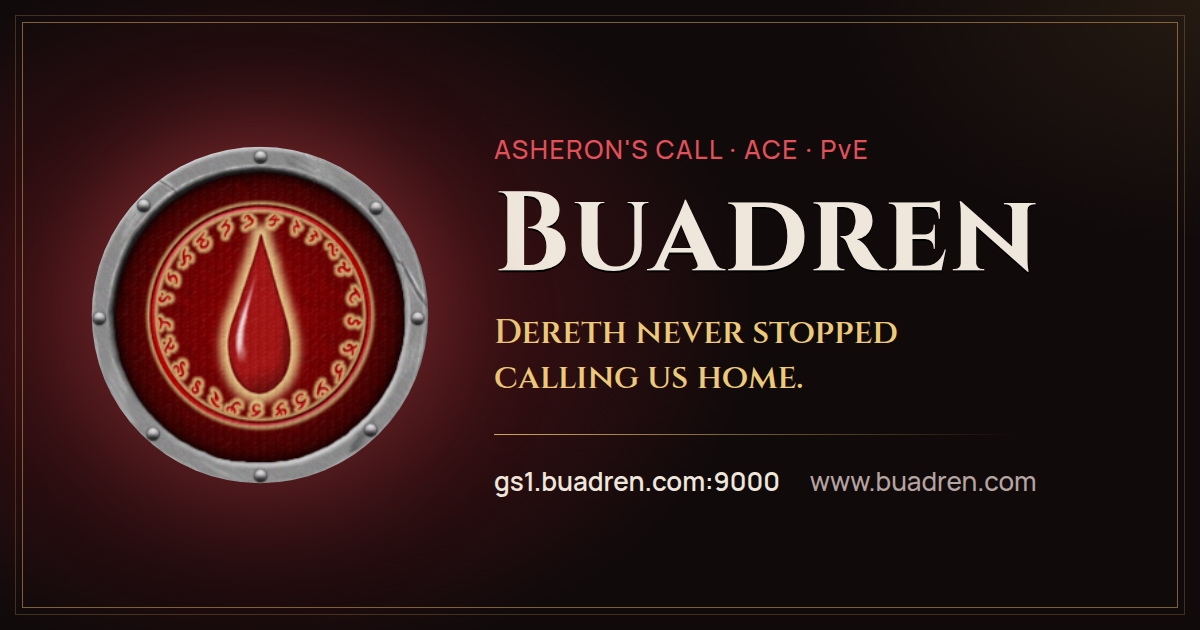
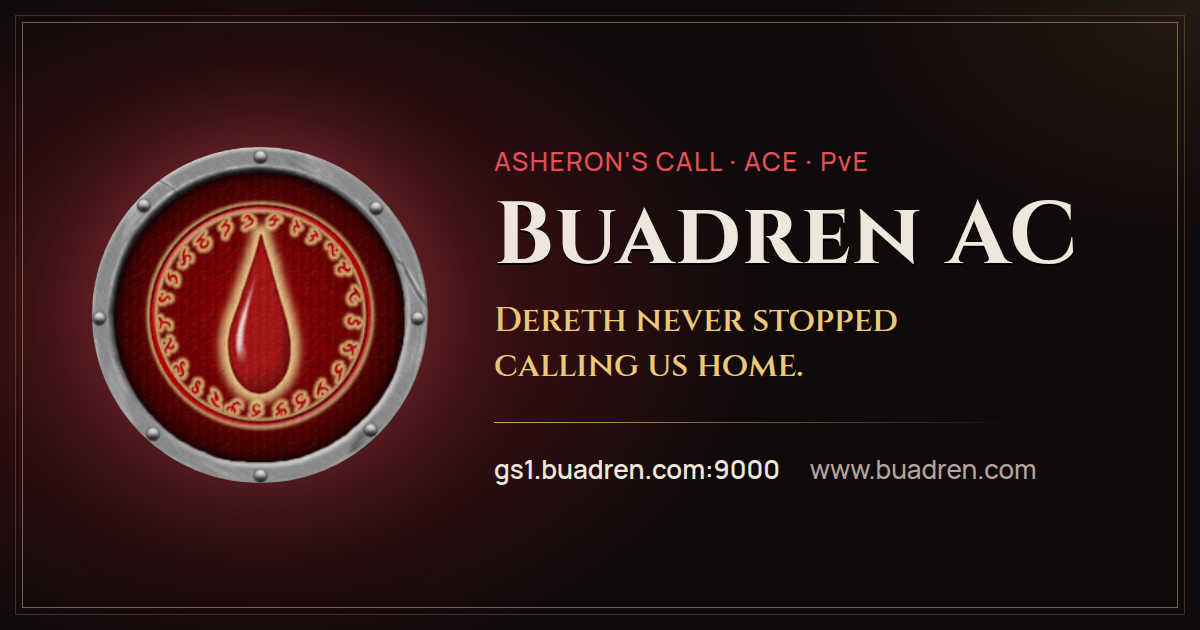
Refer to the server as Buadren AC (#3)
Uses the server's full name, **Buadren AC**, everywhere the site refers
to it. That's also the name in the ACE community server list that Thwarg
Launcher reads, and on TreeStats.

## Changes
- **Page titles and link previews:** `<title>`, meta description, and
the Open Graph and Twitter tags on all three pages (e.g. `Buadren AC —
Asheron's Call, Still Standing`, `Play — Buadren AC`).
- **Nav and footer:** the logo text next to the icon, plus the footer
disclaimer and copyright line.
- **Body copy:** e.g. "What is Buadren AC?". The Play page now tells
players to look for **Buadren AC** in Thwarg's server list, which
matches how it actually appears there.
- **Social banner:** re-rendered with "Buadren AC" as the heading,
shrunk to stay on one line (`docs/img/og-banner.png`, source in
`social/og-banner.html`).
- **README:** same rename.

Domain names (`buadren.com`, `gs1.buadren.com`) and the existing
`Buadren%20AC` TreeStats links are unchanged.

## Notes
- Checked the nav at 375px phone width; the longer name still fits next
to the menu button.
- Discord caches link previews, so a link that was already shared keeps
the old banner for a while. Posting `https://www.buadren.com/?v=3` shows
the new one right away.

🤖 Generated with [Claude Code](https://claude.com/claude-code)

diff --git a/docs/play.html b/docs/play.html
@@ -3,22 +3,22 @@
 <head>
 <meta charset="UTF-8">
 <meta name="viewport" content="width=device-width, initial-scale=1.0">
-<title>Play — Buadren</title>
-<meta name="description" content="How to get connected to Buadren: game files, Thwarg Launcher, and our live and test server addresses.">
+<title>Play — Buadren AC</title>
+<meta name="description" content="How to get connected to Buadren AC: game files, Thwarg Launcher, and our live and test server addresses.">
 <link rel="canonical" href="https://www.buadren.com/play.html">
 <meta name="theme-color" content="#b3202a">
 <meta property="og:site_name" content="Buadren AC">
 <meta property="og:type" content="website">
 <meta property="og:url" content="https://www.buadren.com/play.html">
-<meta property="og:title" content="Play — Buadren">
-<meta property="og:description" content="How to get connected to Buadren: game files, Thwarg Launcher, and our live and test server addresses.">
+<meta property="og:title" content="Play — Buadren AC">
+<meta property="og:description" content="How to get connected to Buadren AC: game files, Thwarg Launcher, and our live and test server addresses.">
 <meta property="og:image" content="https://www.buadren.com/img/og-banner.png">
 <meta property="og:image:width" content="1200">
 <meta property="og:image:height" content="630">
-<meta property="og:image:alt" content="Buadren: the Radiant Blood emblem beside the server name and address, gs1.buadren.com:9000">
+<meta property="og:image:alt" content="Buadren AC: the Radiant Blood emblem beside the server name and address, gs1.buadren.com:9000">
 <meta name="twitter:card" content="summary_large_image">
-<meta name="twitter:title" content="Play — Buadren">
-<meta name="twitter:description" content="How to get connected to Buadren: game files, Thwarg Launcher, and our live and test server addresses.">
+<meta name="twitter:title" content="Play — Buadren AC">
+<meta name="twitter:description" content="How to get connected to Buadren AC: game files, Thwarg Launcher, and our live and test server addresses.">
 <meta name="twitter:image" content="https://www.buadren.com/img/og-banner.png">
 <link rel="preconnect" href="https://fonts.googleapis.com">
 <link rel="preconnect" href="https://fonts.gstatic.com" crossorigin>
@@ -33,7 +33,7 @@
   <div class="container">
     <a href="index.html" class="brand">
       <img class="brand-mark" src="img/buadren-icon.png" alt="" width="30" height="30">
-      Buadren
+      Buadren AC
     </a>
     <button class="nav-toggle" aria-label="Toggle navigation" aria-expanded="false">☰</button>
     <div class="nav-links">
@@ -50,7 +50,7 @@
     <div class="hero-copy">
       <div class="hero-eyebrow">Getting started</div>
       <h1>Getting into Dereth</h1>
-      <p class="lede">Five steps between here and standing on the shore. Most of it is one-time setup — after that, it's just launching Thwarg and picking Buadren from the list.</p>
+      <p class="lede">Five steps between here and standing on the shore. Most of it is one-time setup — after that, it's just launching Thwarg and picking Buadren AC from the list.</p>
     </div>
   </div>
 </header>
@@ -62,21 +62,21 @@
       <div class="step">
         <div class="step-index">1</div>
         <h3>Get your game files</h3>
-        <p>Buadren runs on ACE, so you'll need a working copy of the original Asheron's Call: Throne of Destiny client files before anything else will connect.</p>
+        <p>Buadren AC runs on ACE, so you'll need a working copy of the original Asheron's Call: Throne of Destiny client files before anything else will connect.</p>
         <a class="step-link" href="https://www.emulator.ac/how-to-play/" target="_blank" rel="noopener">ACE's how-to-play guide →</a>
       </div>
 
       <div class="step">
         <div class="step-index">2</div>
         <h3>Install Thwarg Launcher</h3>
-        <p>Thwarg Launcher is what actually connects your client to emulated AC servers, Buadren included. Grab the installer from the official site.</p>
+        <p>Thwarg Launcher is what actually connects your client to emulated AC servers, Buadren AC included. Grab the installer from the official site.</p>
         <a class="step-link" href="https://www.thwargle.com" target="_blank" rel="noopener">thwargle.com →</a>
       </div>
 
       <div class="step">
         <div class="step-index">3</div>
-        <h3>Find Buadren in the server list</h3>
-        <p>Open Thwarg Launcher, go to Browse Servers, and look near the bottom of the list for <strong>Buadren</strong>. Selecting it connects you to our live server.</p>
+        <h3>Find Buadren AC in the server list</h3>
+        <p>Open Thwarg Launcher, go to Browse Servers, and look near the bottom of the list for <strong>Buadren AC</strong>. Selecting it connects you to our live server.</p>
         <div class="callout">Server type: <strong>ACE</strong> · Live address: <strong>gs1.buadren.com:9000</strong></div>
       </div>
 
@@ -107,7 +107,7 @@
     <div>
       <div class="section-head">
         <h2>Server status &amp; character stats</h2>
-        <p>TreeStats tracks uploaded characters and server uptime across the AC emulation community, Buadren included.</p>
+        <p>TreeStats tracks uploaded characters and server uptime across the AC emulation community, Buadren AC included.</p>
       </div>
       <div class="status-links">
         <a class="btn btn-outline" href="https://servers.treestats.net/statuses/Buadren%20AC" target="_blank" rel="noopener">Live server status</a>
@@ -132,7 +132,7 @@
     <div class="footer-grid">
       <a href="index.html" class="brand">
         <img class="brand-mark" src="img/buadren-icon.png" alt="" width="30" height="30">
-        Buadren
+        Buadren AC
       </a>
       <nav class="footer-nav">
         <a href="index.html">Home</a>
@@ -142,7 +142,7 @@
         <a href="https://treestats.net/Buadren%20AC" target="_blank" rel="noopener">Server Stats</a>
       </nav>
     </div>
-    <p class="disclaimer">Asheron's Call was a registered trademark of Turbine, Inc. and WB Games Inc. Buadren is not associated or affiliated in any way with Turbine, Inc. or WB Games Inc. Radiant Blood artwork is from Asheron's Call and belongs to its respective owners. &copy; <span id="year"></span> Buadren. All rights reserved.</p>
+    <p class="disclaimer">Asheron's Call was a registered trademark of Turbine, Inc. and WB Games Inc. Buadren AC is not associated or affiliated in any way with Turbine, Inc. or WB Games Inc. Radiant Blood artwork is from Asheron's Call and belongs to its respective owners. &copy; <span id="year"></span> Buadren AC. All rights reserved.</p>
   </div>
 </footer>
 

diff --git a/docs/index.html b/docs/index.html
@@ -3,24 +3,24 @@
 <head>
 <meta charset="UTF-8">
 <meta name="viewport" content="width=device-width, initial-scale=1.0">
-<title>Buadren — Asheron's Call, Still Standing</title>
-<meta name="description" content="Buadren is a small, community-run Asheron's Call server on ACE with quality-of-life changes: reworked Enlightenment, richer loot, and fellowships that work.">
-<meta name="keywords" content="Asheron's Call, ACE, Asheron, MMORPG, Emulator, AC, Buadren">
+<title>Buadren AC — Asheron's Call, Still Standing</title>
+<meta name="description" content="Buadren AC is a small, community-run Asheron's Call server on ACE with quality-of-life changes: reworked Enlightenment, richer loot, and fellowships that work.">
+<meta name="keywords" content="Asheron's Call, ACE, Asheron, MMORPG, Emulator, AC, Buadren AC">
 <meta name="author" content="Buadren AC">
 <link rel="canonical" href="https://www.buadren.com/">
 <meta name="theme-color" content="#b3202a">
 <meta property="og:site_name" content="Buadren AC">
 <meta property="og:type" content="website">
 <meta property="og:url" content="https://www.buadren.com/">
-<meta property="og:title" content="Buadren — Asheron's Call, Still Standing">
-<meta property="og:description" content="Buadren is a small, community-run Asheron's Call server on ACE with quality-of-life changes: reworked Enlightenment, richer loot, and fellowships that work.">
+<meta property="og:title" content="Buadren AC — Asheron's Call, Still Standing">
+<meta property="og:description" content="Buadren AC is a small, community-run Asheron's Call server on ACE with quality-of-life changes: reworked Enlightenment, richer loot, and fellowships that work.">
 <meta property="og:image" content="https://www.buadren.com/img/og-banner.png">
 <meta property="og:image:width" content="1200">
 <meta property="og:image:height" content="630">
-<meta property="og:image:alt" content="Buadren: the Radiant Blood emblem beside the server name and address, gs1.buadren.com:9000">
+<meta property="og:image:alt" content="Buadren AC: the Radiant Blood emblem beside the server name and address, gs1.buadren.com:9000">
 <meta name="twitter:card" content="summary_large_image">
-<meta name="twitter:title" content="Buadren — Asheron's Call, Still Standing">
-<meta name="twitter:description" content="Buadren is a small, community-run Asheron's Call server on ACE with quality-of-life changes: reworked Enlightenment, richer loot, and fellowships that work.">
+<meta name="twitter:title" content="Buadren AC — Asheron's Call, Still Standing">
+<meta name="twitter:description" content="Buadren AC is a small, community-run Asheron's Call server on ACE with quality-of-life changes: reworked Enlightenment, richer loot, and fellowships that work.">
 <meta name="twitter:image" content="https://www.buadren.com/img/og-banner.png">
 <link rel="preconnect" href="https://fonts.googleapis.com">
 <link rel="preconnect" href="https://fonts.gstatic.com" crossorigin>
@@ -35,7 +35,7 @@
   <div class="container">
     <a href="index.html" class="brand">
       <img class="brand-mark" src="img/buadren-icon.png" alt="" width="30" height="30">
-      Buadren
+      Buadren AC
     </a>
     <button class="nav-toggle" aria-label="Toggle navigation" aria-expanded="false">☰</button>
     <div class="nav-links">
@@ -52,7 +52,7 @@
     <div class="hero-copy">
       <div class="hero-eyebrow">Asheron's Call · ACE · PvE</div>
       <h1>Dereth never stopped calling us home.</h1>
-      <p class="lede">Buadren is a small, community-run Asheron's Call server. Full retail content as a foundation, with quality-of-life changes built by people who still love this world — not a from-scratch reinvention of it.</p>
+      <p class="lede">Buadren AC is a small, community-run Asheron's Call server. Full retail content as a foundation, with quality-of-life changes built by people who still love this world — not a from-scratch reinvention of it.</p>
       <div class="hero-meta">
         <span>gs1.buadren.com:9000</span>
         <span>Software: ACE</span>
@@ -76,8 +76,8 @@
   <div class="container two-col">
     <div>
       <div class="section-head">
-        <h2>What is Buadren?</h2>
-        <p>Buadren runs on ACE, the open-source Asheron's Call server emulator, picking up roughly where retail left off. On top of that base, we've layered changes aimed at one thing: making a small server worth logging into regularly, without losing what made the original game good.</p>
+        <h2>What is Buadren AC?</h2>
+        <p>Buadren AC runs on ACE, the open-source Asheron's Call server emulator, picking up roughly where retail left off. On top of that base, we've layered changes aimed at one thing: making a small server worth logging into regularly, without losing what made the original game good.</p>
       </div>
       <p>That means an Enlightenment system that keeps giving you a reason to push further instead of hitting a wall, loot odds worth chasing, and fellowship rules that don't punish you for playing with friends at different levels. Everything we change gets written down — see the <a href="changelog.html">changelog</a> for the full history.</p>
     </div>
@@ -159,7 +159,7 @@
     <div class="footer-grid">
       <a href="index.html" class="brand">
         <img class="brand-mark" src="img/buadren-icon.png" alt="" width="30" height="30">
-        Buadren
+        Buadren AC
       </a>
       <nav class="footer-nav">
         <a href="index.html">Home</a>
@@ -169,7 +169,7 @@
         <a href="https://treestats.net/Buadren%20AC" target="_blank" rel="noopener">Server Stats</a>
       </nav>
     </div>
-    <p class="disclaimer">Asheron's Call was a registered trademark of Turbine, Inc. and WB Games Inc. Buadren is not associated or affiliated in any way with Turbine, Inc. or WB Games Inc. Radiant Blood artwork is from Asheron's Call and belongs to its respective owners. &copy; <span id="year"></span> Buadren. All rights reserved.</p>
+    <p class="disclaimer">Asheron's Call was a registered trademark of Turbine, Inc. and WB Games Inc. Buadren AC is not associated or affiliated in any way with Turbine, Inc. or WB Games Inc. Radiant Blood artwork is from Asheron's Call and belongs to its respective owners. &copy; <span id="year"></span> Buadren AC. All rights reserved.</p>
   </div>
 </footer>
 

diff --git a/docs/changelog.html b/docs/changelog.html
@@ -3,22 +3,22 @@
 <head>
 <meta charset="UTF-8">
 <meta name="viewport" content="width=device-width, initial-scale=1.0">
-<title>Changelog — Buadren</title>
-<meta name="description" content="Every deviation from retail Asheron's Call on Buadren, newest first: Enlightenment, loot, fellowships, and more.">
+<title>Changelog — Buadren AC</title>
+<meta name="description" content="Every deviation from retail Asheron's Call on Buadren AC, newest first: Enlightenment, loot, fellowships, and more.">
 <link rel="canonical" href="https://www.buadren.com/changelog.html">
 <meta name="theme-color" content="#b3202a">
 <meta property="og:site_name" content="Buadren AC">
 <meta property="og:type" content="website">
 <meta property="og:url" content="https://www.buadren.com/changelog.html">
-<meta property="og:title" content="Changelog — Buadren">
-<meta property="og:description" content="Every deviation from retail Asheron's Call on Buadren, newest first: Enlightenment, loot, fellowships, and more.">
+<meta property="og:title" content="Changelog — Buadren AC">
+<meta property="og:description" content="Every deviation from retail Asheron's Call on Buadren AC, newest first: Enlightenment, loot, fellowships, and more.">
 <meta property="og:image" content="https://www.buadren.com/img/og-banner.png">
 <meta property="og:image:width" content="1200">
 <meta property="og:image:height" content="630">
-<meta property="og:image:alt" content="Buadren: the Radiant Blood emblem beside the server name and address, gs1.buadren.com:9000">
+<meta property="og:image:alt" content="Buadren AC: the Radiant Blood emblem beside the server name and address, gs1.buadren.com:9000">
 <meta name="twitter:card" content="summary_large_image">
-<meta name="twitter:title" content="Changelog — Buadren">
-<meta name="twitter:description" content="Every deviation from retail Asheron's Call on Buadren, newest first: Enlightenment, loot, fellowships, and more.">
+<meta name="twitter:title" content="Changelog — Buadren AC">
+<meta name="twitter:description" content="Every deviation from retail Asheron's Call on Buadren AC, newest first: Enlightenment, loot, fellowships, and more.">
 <meta name="twitter:image" content="https://www.buadren.com/img/og-banner.png">
 <link rel="preconnect" href="https://fonts.googleapis.com">
 <link rel="preconnect" href="https://fonts.gstatic.com" crossorigin>
@@ -33,7 +33,7 @@
   <div class="container">
     <a href="index.html" class="brand">
       <img class="brand-mark" src="img/buadren-icon.png" alt="" width="30" height="30">
-      Buadren
+      Buadren AC
     </a>
     <button class="nav-toggle" aria-label="Toggle navigation" aria-expanded="false">☰</button>
     <div class="nav-links">
@@ -50,7 +50,7 @@
     <div class="hero-copy">
       <div class="hero-eyebrow">Newest first</div>
       <h1>Changelog</h1>
-      <p class="lede">Everything that makes Buadren different from retail Asheron's Call. For the raw, line-by-line diff from retail, see the modifications spreadsheet.</p>
+      <p class="lede">Everything that makes Buadren AC different from retail Asheron's Call. For the raw, line-by-line diff from retail, see the modifications spreadsheet.</p>
       <div class="hero-actions">
         <a class="btn btn-outline" href="https://docs.google.com/spreadsheets/d/1Fc6juqYIBGggwB1l58WI_9aONQDe2IOWVq7sVgkC1uI/edit?usp=sharing" target="_blank" rel="noopener">Full modifications spreadsheet →</a>
       </div>
@@ -324,7 +324,7 @@
     <div class="footer-grid">
       <a href="index.html" class="brand">
         <img class="brand-mark" src="img/buadren-icon.png" alt="" width="30" height="30">
-        Buadren
+        Buadren AC
       </a>
       <nav class="footer-nav">
         <a href="index.html">Home</a>
@@ -334,7 +334,7 @@
         <a href="https://treestats.net/Buadren%20AC" target="_blank" rel="noopener">Server Stats</a>
       </nav>
     </div>
-    <p class="disclaimer">Asheron's Call was a registered trademark of Turbine, Inc. and WB Games Inc. Buadren is not associated or affiliated in any way with Turbine, Inc. or WB Games Inc. Radiant Blood artwork is from Asheron's Call and belongs to its respective owners. &copy; <span id="year"></span> Buadren. All rights reserved.</p>
+    <p class="disclaimer">Asheron's Call was a registered trademark of Turbine, Inc. and WB Games Inc. Buadren AC is not associated or affiliated in any way with Turbine, Inc. or WB Games Inc. Radiant Blood artwork is from Asheron's Call and belongs to its respective owners. &copy; <span id="year"></span> Buadren AC. All rights reserved.</p>
   </div>
 </footer>
 

diff --git a/social/og-banner.html b/social/og-banner.html
@@ -9,7 +9,7 @@ body{background:#110a0b;background-image:radial-gradient(ellipse 700px 500px at 
 .icon-wrap{flex-shrink:0;filter:drop-shadow(0 0 50px rgba(226,81,90,.55)) drop-shadow(0 12px 24px rgba(0,0,0,.6))}
 .icon{display:block;width:340px;height:340px;clip-path:circle(49.5%)}
 .eyebrow{font-size:26px;color:#e2515a;letter-spacing:.06em;margin-bottom:14px}
-h1{font-family:Cinzel,serif;font-weight:700;font-size:112px;line-height:1;letter-spacing:.02em;color:#efe6dc;text-shadow:0 2px 0 #000}
+h1{font-family:Cinzel,serif;font-weight:700;font-size:88px;line-height:1;white-space:nowrap;letter-spacing:.02em;color:#efe6dc;text-shadow:0 2px 0 #000}
 .tag{font-family:Cinzel,serif;font-weight:600;font-size:34px;color:#ecca7a;text-wrap:balance;line-height:1.3;margin:18px 0 34px}
 .rule{height:1px;width:520px;background:linear-gradient(90deg,#d4a94f,transparent);margin-bottom:28px}
 .meta{font-size:26px;color:#b5a4a1;display:flex;gap:30px}
@@ -20,7 +20,7 @@ h1{font-family:Cinzel,serif;font-weight:700;font-size:112px;line-height:1;letter
   <div class="icon-wrap"><img class="icon" src="../docs/img/buadren-icon.png" alt=""></div>
   <div>
     <div class="eyebrow">ASHERON'S CALL · ACE · PvE</div>
-    <h1>Buadren</h1>
+    <h1>Buadren AC</h1>
     <div class="tag">Dereth never stopped calling us home.</div>
     <div class="rule"></div>
     <div class="meta"><span><b>gs1.buadren.com:9000</b></span><span>www.buadren.com</span></div>

diff --git a/README.md b/README.md
@@ -1,6 +1,6 @@
 # Buadren AC Website
 
-Source for [www.buadren.com](https://www.buadren.com/), the website for **Buadren**, a small,
+Source for [www.buadren.com](https://www.buadren.com/), the website for **Buadren AC**, a small,
 community-run Asheron's Call PvE server running on [ACE](https://github.com/ACEmulator/ACE).
 
 - **Server:** `gs1.buadren.com:9000`
@@ -66,6 +66,6 @@ goes live automatically within a minute or two.
 
 ## Disclaimer
 
-Asheron's Call was a registered trademark of Turbine, Inc. and WB Games Inc. Buadren is not
+Asheron's Call was a registered trademark of Turbine, Inc. and WB Games Inc. Buadren AC is not
 associated or affiliated in any way with Turbine, Inc. or WB Games Inc. The Radiant Blood
 artwork in `docs/img/` comes from Asheron's Call and belongs to its respective owners.
